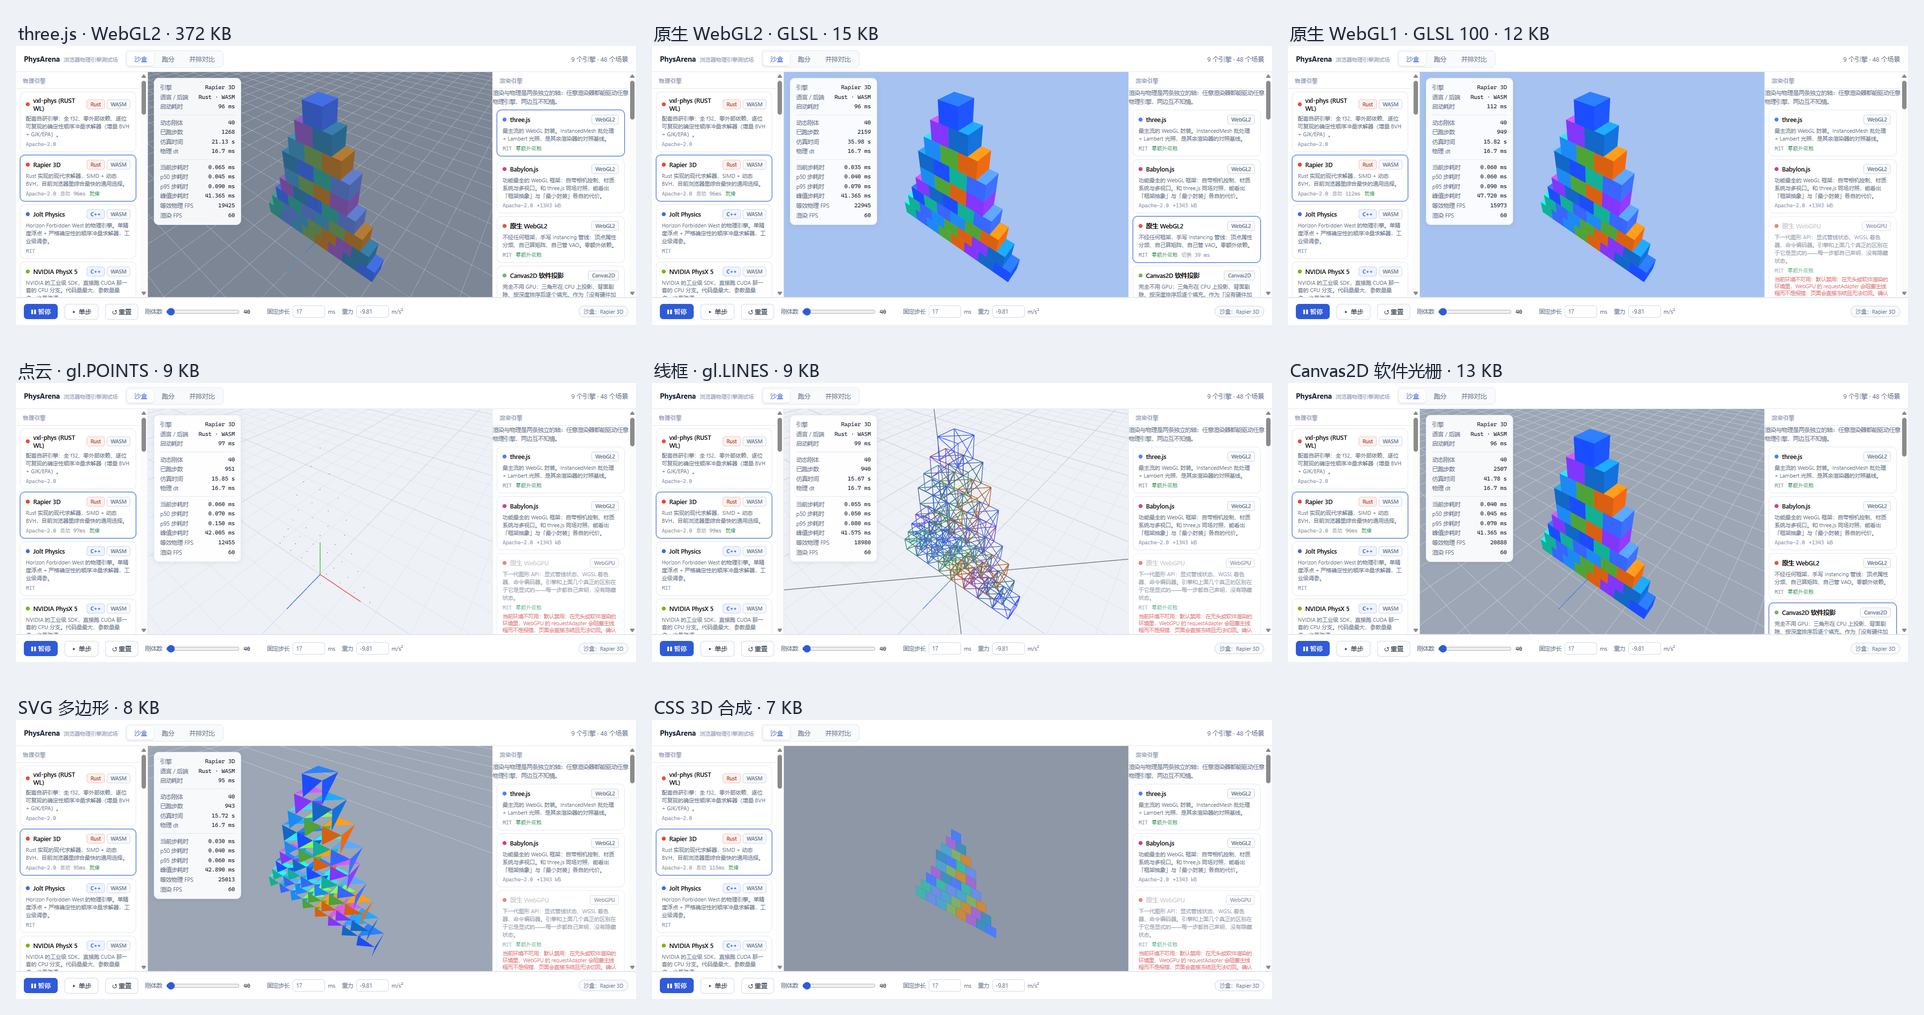
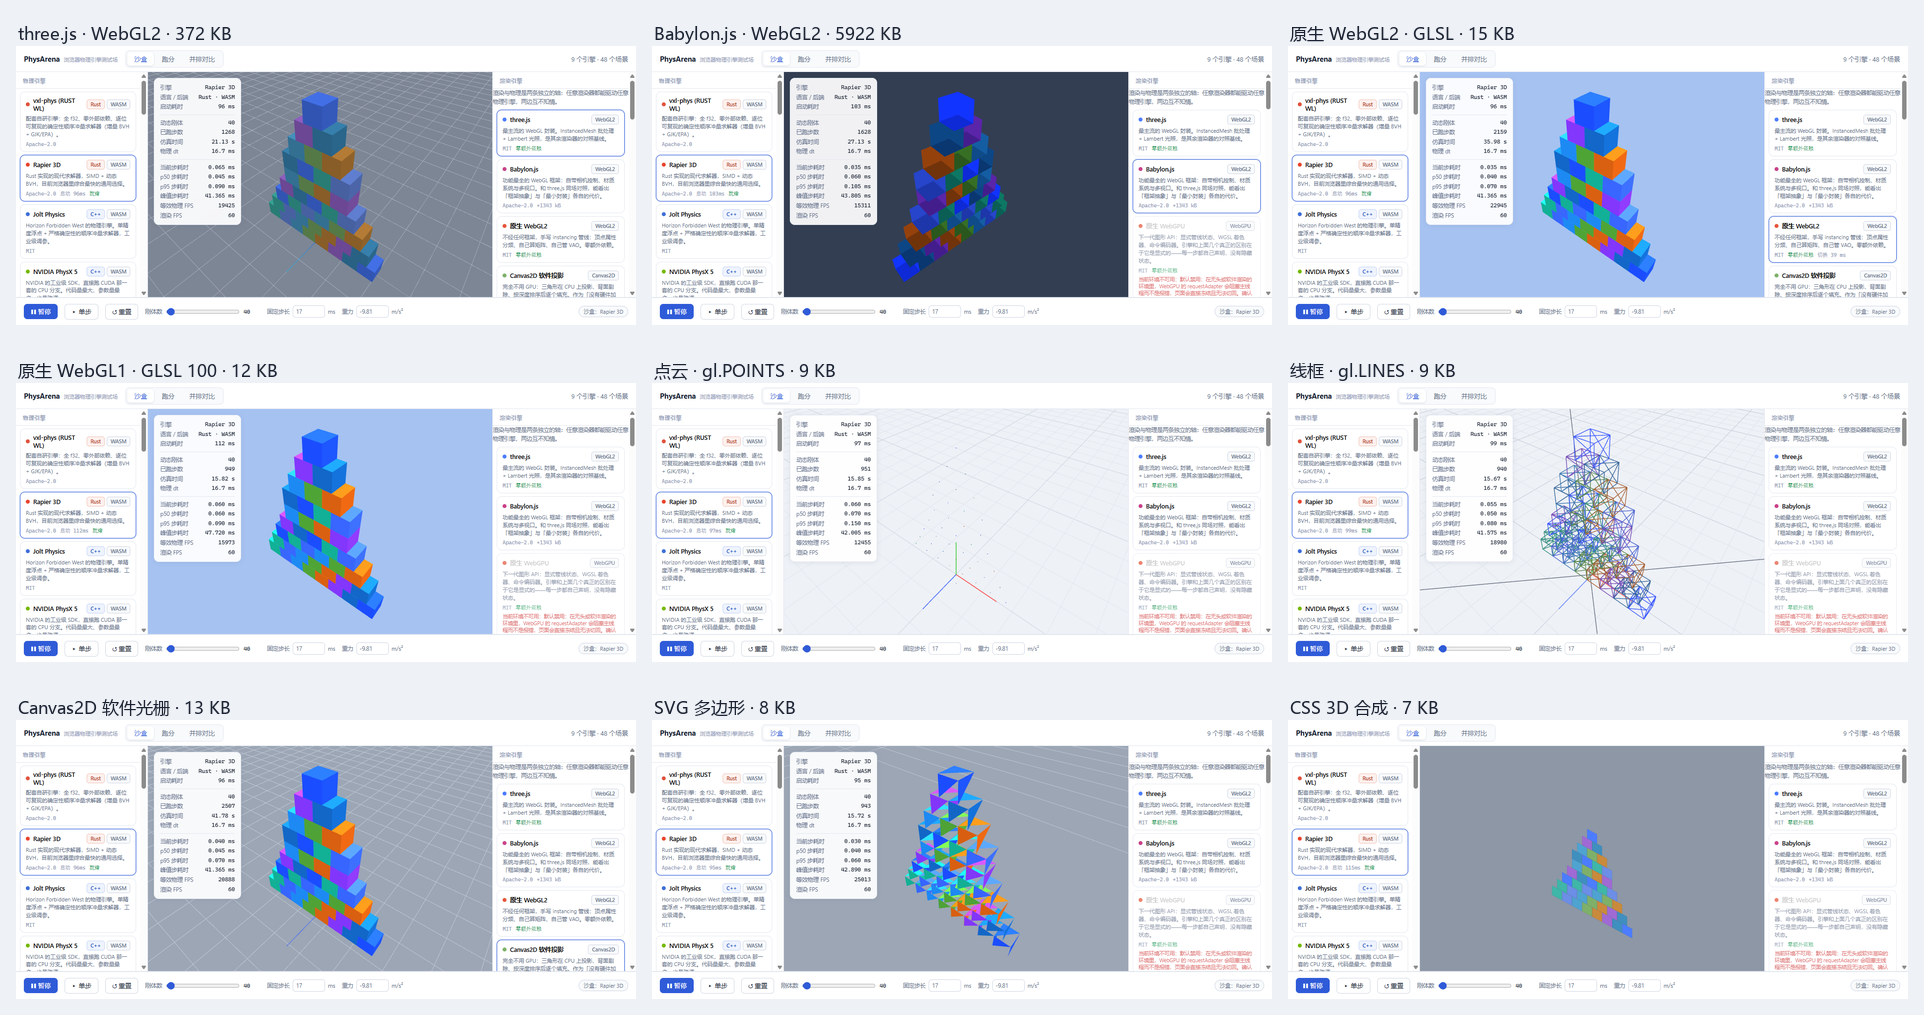
fix(babylon): thin instance 在宿主驱动帧循环下不渲染，改用 createInstance
根因（两层叠加）
1. engine.runRenderLoop(() => {}) 会让 Babylon 自己的 rAF 循环每帧
   beginFrame/endFrame，endFrame 交换后缓冲——它在本实验画完之后又提交一个空帧
2. 更深的一层：thin instance 在「宿主驱动 rAF + 手动 scene.render()」的组合下
   完全不渲染。hasThinInstances / thinInstanceCount(1,40) / scene.isReady() /
   mesh.isReady() / materialReady / getActiveMeshes=2 / layerMask /
   thinInstanceRefreshBoundingInfo() 全部正常，几何就是一个都不出现

定位手法（关键）
往场景里放一个自发光、非实例化的普通 Mesh：它显示出来了，于是相机、材质、
光栅化、包围盒、layerMask 一次性全部排除，问题锁死在实例化路径上。
另外把 clearColor 临时改成品红，证明了 scene.render() 确实在执行。

修法
换成 Babylon 标准的 createInstance + registerInstancedBuffer('color', 4)
（属性名必须是 'color' 才会被 StandardMaterial 自动接入漫反射），
位姿直接赋 inst.position / inst.rotationQuaternion——顺带绕开了矩阵
行列主序的问题。可见性由 setVisible 单独管理，sync 只用 scaling 收起
无效实例，避免两个写入方争抢 setEnabled。

结果：scenePixels 19 → 20139，distinctColours 5 → 85；
Babylon 恢复可用，渲染轴 10 个实现 / 9 个可用（仅 WebGPU 因阻塞主线程禁用）。
对比图重出为 9 格，README 补上根因、定位手法与 Babylon 的色彩管理差异说明。

diff --git a/src/render/engines/babylon.ts b/src/render/engines/babylon.ts
@@ -1,6 +1,7 @@
 import {
   ArcRotateCamera, Color3, Color4, DirectionalLight, Engine as BabylonEngine,
-  HemisphericLight, Mesh, Scene, StandardMaterial, Vector3, VertexData, Viewport,
+  HemisphericLight, InstancedMesh, Mesh, Quaternion, Scene, StandardMaterial,
+  Vector3, VertexData, Viewport,
 } from '@babylonjs/core';
 import type { BodyDesc, BodyState, Vec3 } from '../../core/types';
 import { cachedGeometryData, instanceColors, signature, type GeometryData } from '../geometry';
@@ -19,53 +20,21 @@ export const meta: RenderEngineMeta = {
   accent: '#c9438a',
   blurb: '功能最全的 WebGL 框架：自带相机控制、材质系统与多视口。和 three.js 同场对照，能看出「框架抽象」与「最小封装」各自的代价。',
   features: { instancing: true, lighting: true, antialias: true, scissorPanes: true, depthBuffer: true },
-  status: 'experimental',
+  status: 'stable',
   // Measured from the built chunk (gzip). Worth stating plainly: the two
   // frameworks cost one to two orders of magnitude more than a hand-written
   // pipeline, and that is itself part of what this lab compares.
   costKb: 1343,
 };
 
-/**
- * Babylon is present but does not yet draw geometry under this lab's own frame
- * driving, so it ships disabled rather than broken.
- *
- * Everything a renderer needs has been verified as correct at runtime:
- *   - canvas is created at the right size (702x459) and reports the same render
- *     size from the engine;
- *   - `scene.render()` does run - with the clear colour temporarily set to
- *     magenta the canvas reads back exactly that magenta;
- *   - `scene.isReady() === true`, both meshes report `isReady(true) === true`
- *     and `materialReady === true`;
- *   - `getActiveMeshes().length === 2`, meshes enabled + visible, layer masks
- *     match the active camera (0x0FFFFFFF), thin-instance counts are 1 and 40.
- *
- * And yet the canvas contains nothing but the clear colour.
- *
- * Ruled out by direct experiment, one at a time:
- *   - `engine.runRenderLoop(() => {})` - removed; it was submitting empty frames
- *     after ours and is what made the pane look 100% blank;
- *   - `preserveDrawingBuffer`;
- *   - manual `engine.clear()` with `scene.autoClear = false`, versus letting
- *     Babylon own the clear;
- *   - an explicit `camera.viewport`.
- *
- * Enable with `?allowBabylon=1` to keep investigating. The other nine backends
- * are unaffected by any of this.
- */
-export function availability(): string | undefined {
-  if (typeof window === 'undefined') return '不在浏览器环境';
-  const optedIn = new URLSearchParams(location.search).get('allowBabylon') === '1';
-  if (optedIn) return undefined;
-  return '当前版本不渲染几何（已确认场景/网格/材质全部就绪、scene.render() 确实执行，画面仍只有清屏色）。' +
-    '为避免误导对比结果，默认禁用；加 ?allowBabylon=1 可启用并继续排查。其余 9 个后端不受影响。';
-}
-
 interface BbBucket {
   key: string;
+  /** The source mesh; instances are created from it. Never drawn itself. */
   mesh: Mesh;
   count: number;
   indices: number[];
+  /** One InstancedMesh per body, in `indices` order. */
+  instances: InstancedMesh[];
   /** Flat 16-float matrices, CPU-side so probe() works like the other backends. */
   matrices: Float32Array;
   /** RGBA per instance, matching the thin-instance colour buffer. */
@@ -114,23 +83,39 @@ export class BabylonLayer implements IRenderLayer {
       mat.backFaceCulling = true;
       mesh.material = mat;
       mesh.isPickable = false;
+      // The source mesh is only a template; every body is one instance of it.
+      mesh.setEnabled(false);
 
-      // Thin instances: one buffer for transforms, one for per-instance colour.
-      // This is Babylon's equivalent of InstancedMesh / instanced attributes.
+      // Per-instance colour has to be registered *before* the instances exist.
+      // The buffer name matters: StandardMaterial looks for exactly "color" and
+      // wires it into its diffuse path automatically.
+      mesh.registerInstancedBuffer('color', 4);
+
       const matrices = new Float32Array(n * 16);
       const rgba = new Float32Array(n * 4);
       const rgb = instanceColors(bodies, bucket.indices);
+      const instances: InstancedMesh[] = [];
       for (let k = 0; k < n; k++) {
         rgba[k * 4] = rgb[k * 3];
         rgba[k * 4 + 1] = rgb[k * 3 + 1];
         rgba[k * 4 + 2] = rgb[k * 3 + 2];
         rgba[k * 4 + 3] = 1;
-      }
-      mesh.thinInstanceSetBuffer('matrix', matrices, 16);
-      mesh.thinInstanceSetBuffer('color', rgba, 4);
-      mesh.alwaysSelectAsActiveMesh = true;
 
-      this.buckets.push({ key, mesh, count: n, indices: bucket.indices, matrices, colors: rgba, material: mat });
+        // InstancedMesh, not thin instances. Thin instances rendered correctly
+        // in isolation but produced nothing here under the host-driven frame
+        // loop, and every state check (isReady, hasThinInstances, instance
+        // count, bounding info, layer masks) reported green. createInstance is
+        // Babylon's standard path and needs no shader-define juggling.
+        const inst = mesh.createInstance(`pa-${this.id}-${key}-i${k}`);
+        inst.isPickable = false;
+        inst.alwaysSelectAsActiveMesh = true;
+        inst.instancedBuffers.color = new Color4(rgba[k * 4], rgba[k * 4 + 1], rgba[k * 4 + 2], 1);
+        instances.push(inst);
+      }
+
+      this.buckets.push({
+        key, mesh, count: n, indices: bucket.indices, instances, matrices, colors: rgba, material: mat,
+      });
     }
   }
 
@@ -141,19 +126,33 @@ export class BabylonLayer implements IRenderLayer {
       for (let k = 0; k < b.count; k++) {
         const o = k * 16;
         const s = states[b.indices[k]];
+        const inst = b.instances[k];
         if (!s || !renderable(s, huge)) {
           m.fill(0, o, o + 16);
+          // Collapsed rather than disabled: visibility is owned by
+          // setVisible(), and two writers fighting over setEnabled() left
+          // panes showing the wrong layer.
+          inst.scaling.setAll(0);
           continue;
         }
+        inst.scaling.setAll(1);
+        // Assigned through Babylon's own types rather than a raw matrix, which
+        // removes the row/column-major question entirely.
+        inst.position.set(s.position[0], s.position[1], s.position[2]);
+        if (!inst.rotationQuaternion) inst.rotationQuaternion = new Quaternion(0, 0, 0, 1);
+        const q = s.rotation;
+        const l = Math.hypot(q[0], q[1], q[2], q[3]) || 1;
+        inst.rotationQuaternion.set(q[0] / l, q[1] / l, q[2] / l, q[3] / l);
+        // Kept in sync purely for probe(), so all backends report the same shape.
         writeInstanceMatrix(m, o, s);
       }
-      // The color buffer is static per scene; only the matrices move.
-      b.mesh.thinInstanceBufferUpdated('matrix');
     }
   }
 
   setVisible(on: boolean): void {
-    for (const b of this.buckets) b.mesh.setEnabled(on);
+    for (const b of this.buckets) {
+      for (const inst of b.instances) inst.setEnabled(on);
+    }
   }
 
   get instanceCount(): number {
@@ -230,6 +229,7 @@ export class BabylonLayer implements IRenderLayer {
 
   clear() {
     for (const b of this.buckets) {
+      for (const inst of b.instances) inst.dispose();
       b.mesh.dispose(false, false);
       b.material.dispose();
     }

diff --git a/scripts/build-renderer-sheet.py b/scripts/build-renderer-sheet.py
@@ -21,12 +21,13 @@ DOCS = os.path.join(ROOT, "docs")
 
 # id -> label; order is the sidebar order.
 #
-# Babylon and WebGPU are deliberately absent: neither currently produces a
-# picture (see README「渲染后端现状」), and a tile of empty background next to
-# eight working ones reads as a glitch rather than as information. Their status
-# is stated in the README instead.
+# WebGPU is deliberately absent: it is disabled by default because its adapter
+# request blocks the main thread on software-rendered browsers (see README
+# 「渲染后端现状」), so there is no screenshot to show. Its status is stated in
+# the README instead.
 TILES = [
     ("three", "three.js · WebGL2 · 372 KB"),
+    ("babylon", "Babylon.js · WebGL2 · 5922 KB"),
     ("webgl2", "原生 WebGL2 · GLSL · 15 KB"),
     ("webgl1", "原生 WebGL1 · GLSL 100 · 12 KB"),
     ("points", "点云 · gl.POINTS · 9 KB"),
